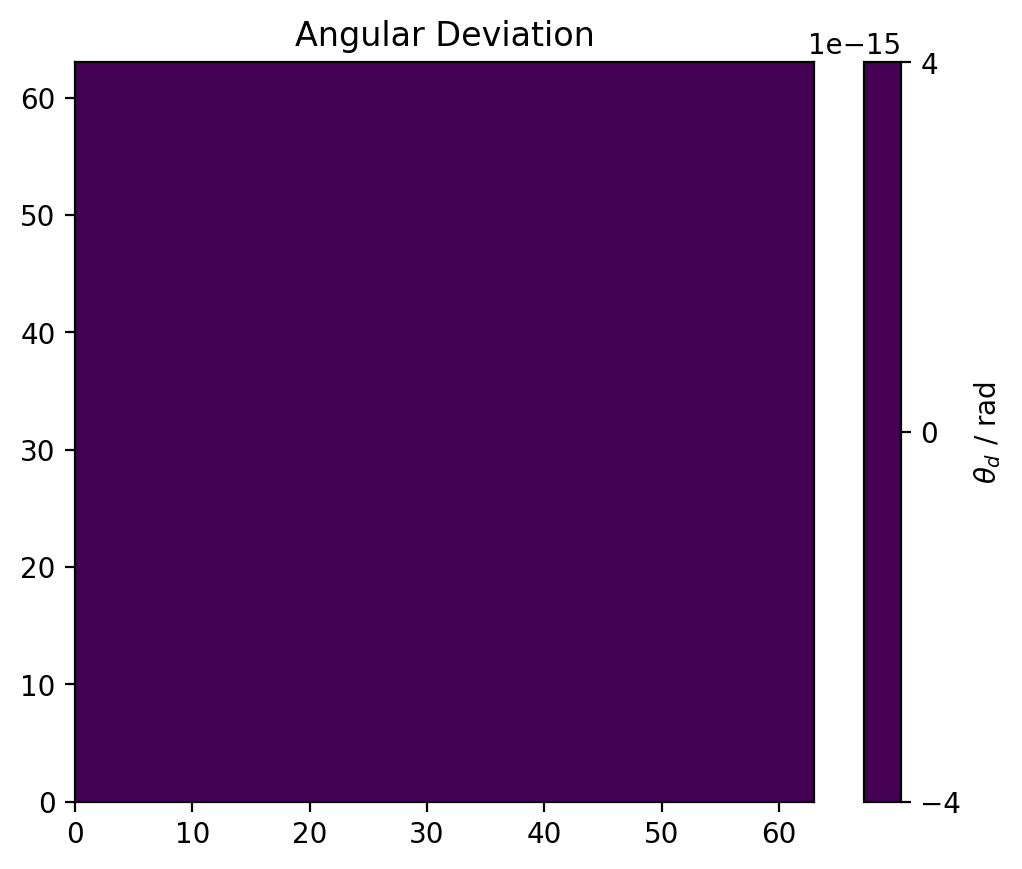
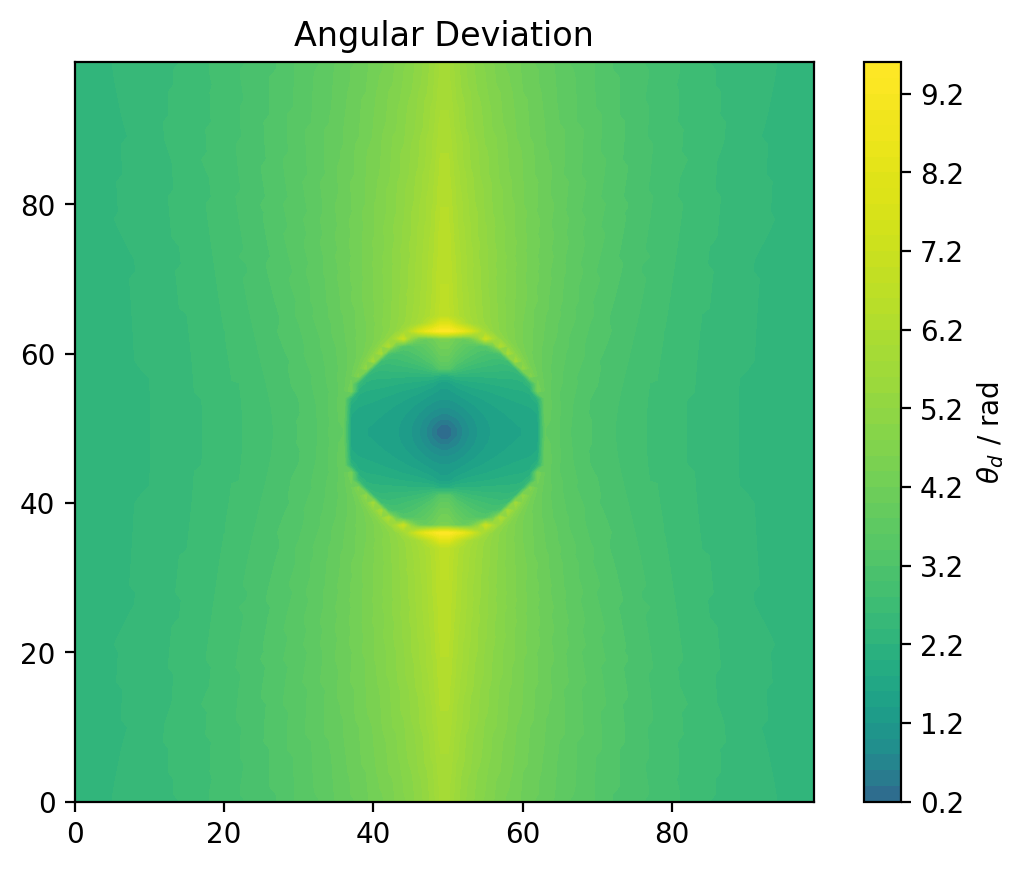
Debugged grid interpolation, gas rendering successful

diff --git a/src/render/test.py b/src/render/test.py
@@ -1,71 +1,21 @@
 # A place for testing out functions/methods that would not otherwise be directly called.
 import numpy as np
 from PIL import Image
-from itertools import product
-
-from Classes.math import *
 from Classes.physics import *
-from Classes.int_and_settings import *
+from Classes.int_and_settings import RenderSettings
 from Classes.tags import *
-from rendering import *
 from diagnostics import *
 
 import os
 os.chdir(os.path.dirname(os.path.realpath(__file__)))
 
-print("hi2")
-patch = Patch([np.array([0], dtype=np.float64),
-               np.linspace(-30, 10, 11, dtype=np.float64),
-               np.linspace(-30, 10, 11, dtype=np.float64),
-               np.linspace(-30, 10, 11, dtype=np.float64)])
-grid = Grid(patch)
-
-grid = grid.add_patch(Patch([np.array([0], dtype=np.float64),
-                             np.linspace(-6, 6, 13, dtype=np.float64),
-                             np.linspace(-6, 6, 13, dtype=np.float64),
-                             np.linspace(-6, 6, 13, dtype=np.float64)]))
-
-print("hi")
-def get_gas(pts):
-    x, y, z = pts[:,1], pts[:,2], pts[:,3]
-    r = np.sqrt(x**2 + y**2 + z**2)
-    temp = 5e4 * np.exp(-r**2/10)
-    ext_coeff = 1 * np.exp(-r**2/10)
-    gas_params = np.zeros((len(pts), 6), dtype=np.float64); gas_params[:,0] += 1
-    gas_params[:,4] = temp; gas_params[:,5] = ext_coeff
-    return gas_params
-
-gas_vals = get_gas(grid.pts)
-gas = Function(grid, gas_vals)
-
 bg = np.array(Image.open("Images/background1.jpg")).astype(np.float64) / 255.
-settings = RenderSettings(w=100, h=100, cam_pos=Vec(-10,0,0), cam_dir=Vec(1,0,0), cam_vel=Vec(0,0,0),
-                          background=bg, gas=gas)
+ss = GravField(tag=GRAVFIELD_SCHWARZSCHILD, pos=Vec(0,0,0), M=0.5)
+settings = RenderSettings(w=100, h=100, cam_pos=Vec(-10,0,0), cam_dir=Vec(1,0,0), cam_vel=Vec(0.5,0,0), background=bg, grav_field=ss)
 
-print("Calculating geodesics...")
-integrator = Integrator(tag=INTEGRATOR_GEODESICEQ, grav_field=settings.grav_field, scene=settings.scene,
-                        cam_pos=settings.cam_pos, bg_rad=settings.bg_rad)
-geodesics_ = [Function() for _ in range(settings.w * settings.h)]
-gas_vals = geodesics_.copy(); spec_ints_ = geodesics_.copy()
-
-with ProgressBar(total=settings.w*settings.h) as pbar:
-    geodesics = get_geodesics(integrator, geodesics_, settings, pbar)
-
-print("Finding gas values along geodesics...")
-for i in prange(len(geodesics)):
-    geodesic = geodesics[i]
-    max_t = np.max(geodesic.grid.pts)
-    grid = Grid(Patch([np.linspace(0, max_t, 50)]))
-    xs = geodesic.interp(grid.pts)[:,:4]
-    print(i)
-    gas_vals[i] = Function(grid, gas.interp(xs))
-
-print("Calculating colors...")
-integrator = Integrator(tag=INTEGRATOR_SPECINT, specint_grid=settings.col_converter.grid,
-                        geodesics=geodesics, gas_vals=gas_vals, grav_field=settings.grav_field,
-                        obs_vel=settings.grav_field.timelike_cond(settings.cam_vel, settings.cam_pos.four_vec(0)))
-with ProgressBar(total=settings.w*settings.h) as pbar:
-    spec_ints, cols = get_colors(integrator, settings, spec_ints_, pbar)
-# np.save("cols_actual.npy", cols)
-render_img = Image.fromarray(cols.reshape(settings.h, settings.w, 3).astype(np.uint8))
-render_img.show()
+print(settings.ray_dir_px(50, 80).np_array())
+print(settings.ray_dir_px(20, 50).np_array())
+geodesic1 = look_ray(settings.cam_pos, settings.ray_dir_px(50, 80), settings)
+geodesic2 = look_ray(settings.cam_pos, settings.ray_dir_px(20, 50), settings)
+print(geodesic1.vals[0,-1])
+print(geodesic2.vals[0,-1])

diff --git a/src/render/call.py b/src/render/call.py
@@ -20,9 +20,10 @@ print("Initializing...")
 
 def get_gas(pts):
     x, y, z = pts[:,1], pts[:,2], pts[:,3]
-    r = np.sqrt(x**2 + y**2 + z**2)
-    temp = 5e4 * np.exp(-r**2/10)
-    ext_coeff = 0.5 * np.exp(-r**2/10)
+    s = np.sqrt(x**2 + y**2) - 5
+    d = np.sqrt(s**2 + z**2)
+    temp = 2.5e4 * np.exp(-d**2/5)
+    ext_coeff = 0.125 * np.exp(-d**2/5)
     gas_params = np.zeros((len(pts), 6), dtype=np.float64); gas_params[:,0] += 1
     gas_params[:,4] = temp; gas_params[:,5] = ext_coeff
     return gas_params
@@ -39,20 +40,17 @@ gas = Function(grid, gas_vals)
 
 bg = np.array(Image.open("Images/background1.jpg")).astype(np.float64) / 255.
 ss = GravField(tag=GRAVFIELD_SCHWARZSCHILD, pos=Vec(0,0,0), M=0.5)
-# settings1 = RenderSettings(w=1280, h=720, cam_pos=Vec(-10,0,0), cam_dir=Vec(1,0,0), cam_vel=Vec(0,0,0), background=bg, gas=gas)
-settings2 = RenderSettings(w=1280, h=720, cam_pos=Vec(-10,0,0), cam_dir=Vec(1,0,0), cam_vel=Vec(0.1,0,0), background=bg, grav_field=ss)
+settings = RenderSettings(w=1280, h=720, cam_pos=Vec(-10,0,5), cam_dir=Vec(10,0,-5).normal(), cam_vel=Vec(0,0,0), background=bg, bg_rad=30, gas=gas, grav_field=ss)
 
 t3 = time.perf_counter()
 print(f"Initialization finished in {t3-t2:.4f} s\n")
 
 print("Rendering (ignore NumbaPerformanceWarning's)...")
-render_img, ang_dev_img, avg_specint_img = render_seq(settings2)
-render_filename = "test21.png" # test21, test22
-ang_dev_filename = "ang_dev1.png"
+render_img, ang_dev_img, avg_specint_img = render_seq(settings)
+render_filename = "test22.png" # test21, test22
 render_img.save(f"Images/{render_filename}") 
-ang_dev_img.save(f"Images/{ang_dev_filename}") # Uncomment this for test 2
   
 t4= time.perf_counter()
 print(f"Rendering finished in {(t4-t3)/60:.4f} min\n")
-print(f"Saved '{render_filename}' and '{ang_dev_filename}'")
+print(f"Saved '{render_filename}")
 

diff --git a/src/render/diagnostics.py b/src/render/diagnostics.py
@@ -124,7 +124,7 @@ def look_ray(ray_pos:Vec, ray_dir:Vec, settings:RenderSettings) -> Function:
     """For plotting out the path of a light ray originating from ray_pos in the direction of ray_dir."""
 
     ray_dir.is_normal()
-    x0 = settings.cam_pos.four_vec(0)
+    x0 = ray_pos.four_vec(0)
     X0 = settings.grav_field.coord_pos(x0)
     V0 = settings.grav_field.null_cond(ray_dir, x0)
     y0 = np.concatenate((X0, V0, np.array([0], dtype=np.float64)))
@@ -133,18 +133,16 @@ def look_ray(ray_pos:Vec, ray_dir:Vec, settings:RenderSettings) -> Function:
     geodesic = trace_geodesic(integrator, y0, settings.bg_rad)
 
     # Plot
-    x_plot, y_plot, z_plot = [], [], []
-    for i in range(len(geodesic.grid.pts)):
-        mink_x = settings.grav_field.mink_pos(geodesic.vals[i,:4])
-        x_plot.append(mink_x[1]); y_plot.append(mink_x[2]); z_plot.append(mink_x[3])
     fig = plt.figure()
     ax = plt.axes(projection="3d")
+    x_plot = geodesic.vals[:,1]; y_plot = geodesic.vals[:,2]; z_plot = geodesic.vals[:,3]
     ax.plot3D(x_plot, y_plot, z_plot, color="tab:olive")
-    ax.plot3D(x_plot[0], y_plot[0], z_plot[0], "x", color="tab:blue")
-    ax.plot3D(x_plot[-1], y_plot[-1], z_plot[-1], "x", color="tab:orange")
+    ax.plot3D(x_plot[0], y_plot[0], z_plot[0], "x", color="tab:blue", label="Start")
+    ax.plot3D(x_plot[-1], y_plot[-1], z_plot[-1], "x", color="tab:orange", label="End")
     ax.set_xlabel("x"); ax.set_ylabel("y"); ax.set_zlabel("z")
     ax.grid(False)
     ax.set_title("Light Ray")
+    plt.legend()
     plt.tight_layout()
     plt.show()
 

diff --git a/src/render/Classes/math.py b/src/render/Classes/math.py
@@ -153,7 +153,7 @@ class Patch:
         N = len(pts)
         multi_idx = np.zeros((N, self.dim), dtype=np.int64)
         for i in range(N):
-            for j in range(self.dim): multi_idx[i] = np.where(self.arr[j] == pts[i,j])[0][0]
+            for j in range(self.dim): multi_idx[i,j] = np.where(self.arr[j] == pts[i,j])[0][0]
         addend = np.zeros((N, self.dim), dtype=np.int64)
         addend[:, np.abs(dim)-1] = np.zeros(N, dtype=np.int64) + np.sign(dim)
         adj_multi_idx = np.clip(multi_idx + addend, 0, (self.arr_lens - 1).repeat(N).reshape(self.dim, N).T)
@@ -193,13 +193,6 @@ class Grid:
         self.del_idx:list[np.ndarray] = List([-np.ones(1, dtype=np.int64)])
         self.n_del_pts = np.zeros(1, dtype=np.int64)
         self.dim = patch.dim
-
-    def is_grid_pt(self, pt:np.ndarray) -> bool:
-        """Returns if a given pt is a grid point."""
-
-        for i in range(len(self.pts)):
-            if np.max(np.abs(self.pts[i] - pt)) <= 1e-16: return True
-        return False
 
     def finest_patch(self, pts:np.ndarray, min_corner:bool=False) -> np.ndarray[int]:
         """Returns the smallest child among the hierarchies of patches the pt is in. If a pt does not belong to any patch,

diff --git a/src/render/Classes/GravField/schwarzschild.py b/src/render/Classes/GravField/schwarzschild.py
@@ -44,9 +44,9 @@ def mink_pos(self, x):
 
     out = np.zeros(4, dtype=np.float64)
     out[0] = T
-    out[1] = R * np.sin(THETA) * np.cos(PHI)
-    out[2] = R * np.sin(THETA) * np.sin(PHI)
-    out[3] = R * np.cos(THETA)
+    out[1] = R * np.sin(THETA) * np.cos(PHI) + self.pos.x
+    out[2] = R * np.sin(THETA) * np.sin(PHI) + self.pos.y
+    out[3] = R * np.cos(THETA) + self.pos.z
     return np.ascontiguousarray(out)
 
 @njit

diff --git a/src/render/Classes/Integrators/geodesiceq.py b/src/render/Classes/Integrators/geodesiceq.py
@@ -20,9 +20,7 @@ def derivative(self, _, y:np.ndarray) -> np.ndarray:
     for c in range(4): A[c] -= (chr_syms[c] @ v) @ v # Geodesic equation
 
     v3 = self.grav_field.mink_vel(v, x)[1:]; a3 = self.grav_field.mink_vel(A, x)[1:]
-    v_norm = np.linalg.norm(v3)
-    K = a3 / v_norm**2 - v3 * (v3 @ a3) / v_norm**4 # Infinitesimal angular deviation
-    dTheta = np.linalg.norm(K)
+    dTheta = np.linalg.norm(np.cross(v3, a3)) / np.linalg.norm(v3)**2
 
     y_new = np.concatenate((v, A, np.array([dTheta], dtype=np.float64)))
     return np.ascontiguousarray(y_new)

diff --git a/src/render/rendering.py b/src/render/rendering.py
@@ -96,7 +96,7 @@ def get_colors(geodesics:list[Function], gas_vals:list[Function], settings:Rende
                     spec_int0 = spec_int0.reshape(len(spec_int0))
                     break
         max_t = np.max(geodesic.grid.pts)
-        spec_int = integrator.solve(0, spec_int0, max_t/50, max_t, 5)
+        spec_int = integrator.solve(0, spec_int0, max_t/50, max_t, 10)
         spec_int = spec_int.vals[-1]; spec_int = spec_int.reshape(len(spec_int), 1)
         spec_int = settings.rel_aberr(Function(integrator.specint_grid, spec_int), k1)
         spec_ints[i] = spec_int; cols[i] = settings.col_converter.get_rgb(spec_int) * 255.
@@ -129,9 +129,9 @@ def render_seq(settings:RenderSettings) -> tuple[Image.Image]:
         spec_ints, cols = get_colors(geodesics, gas_vals, settings, spec_ints_, pbar)
     render_img = Image.fromarray(cols.reshape(settings.h, settings.w, 3).astype(np.uint8))
     render_img.show()
+    del geodesics, gas_vals
 
     print("Plotting the average spectral radiance...")
     avg_specint_img = avg_specint(spec_ints, settings)
-    avg_specint_img.show()
 
     return render_img, ang_dev_img, avg_specint_img

diff --git a/src/render/Classes/int_and_settings.py b/src/render/Classes/int_and_settings.py
@@ -96,7 +96,7 @@ class Integrator:
             return h * max(0.1, factor)
 
     def solve(self, t0:float, y0:np.ndarray,
-              h_init:float=0.1, max_t:float=1e3, tol:float=1e-8, safety:float=0.5) -> Function:
+              h_init:float=0.1, max_t:float=1e3, tol:float=1e-6, safety:float=0.5) -> Function:
         """Solves the differential equation and returns the function representing it."""
 
         t, y, h = t0, y0, h_init